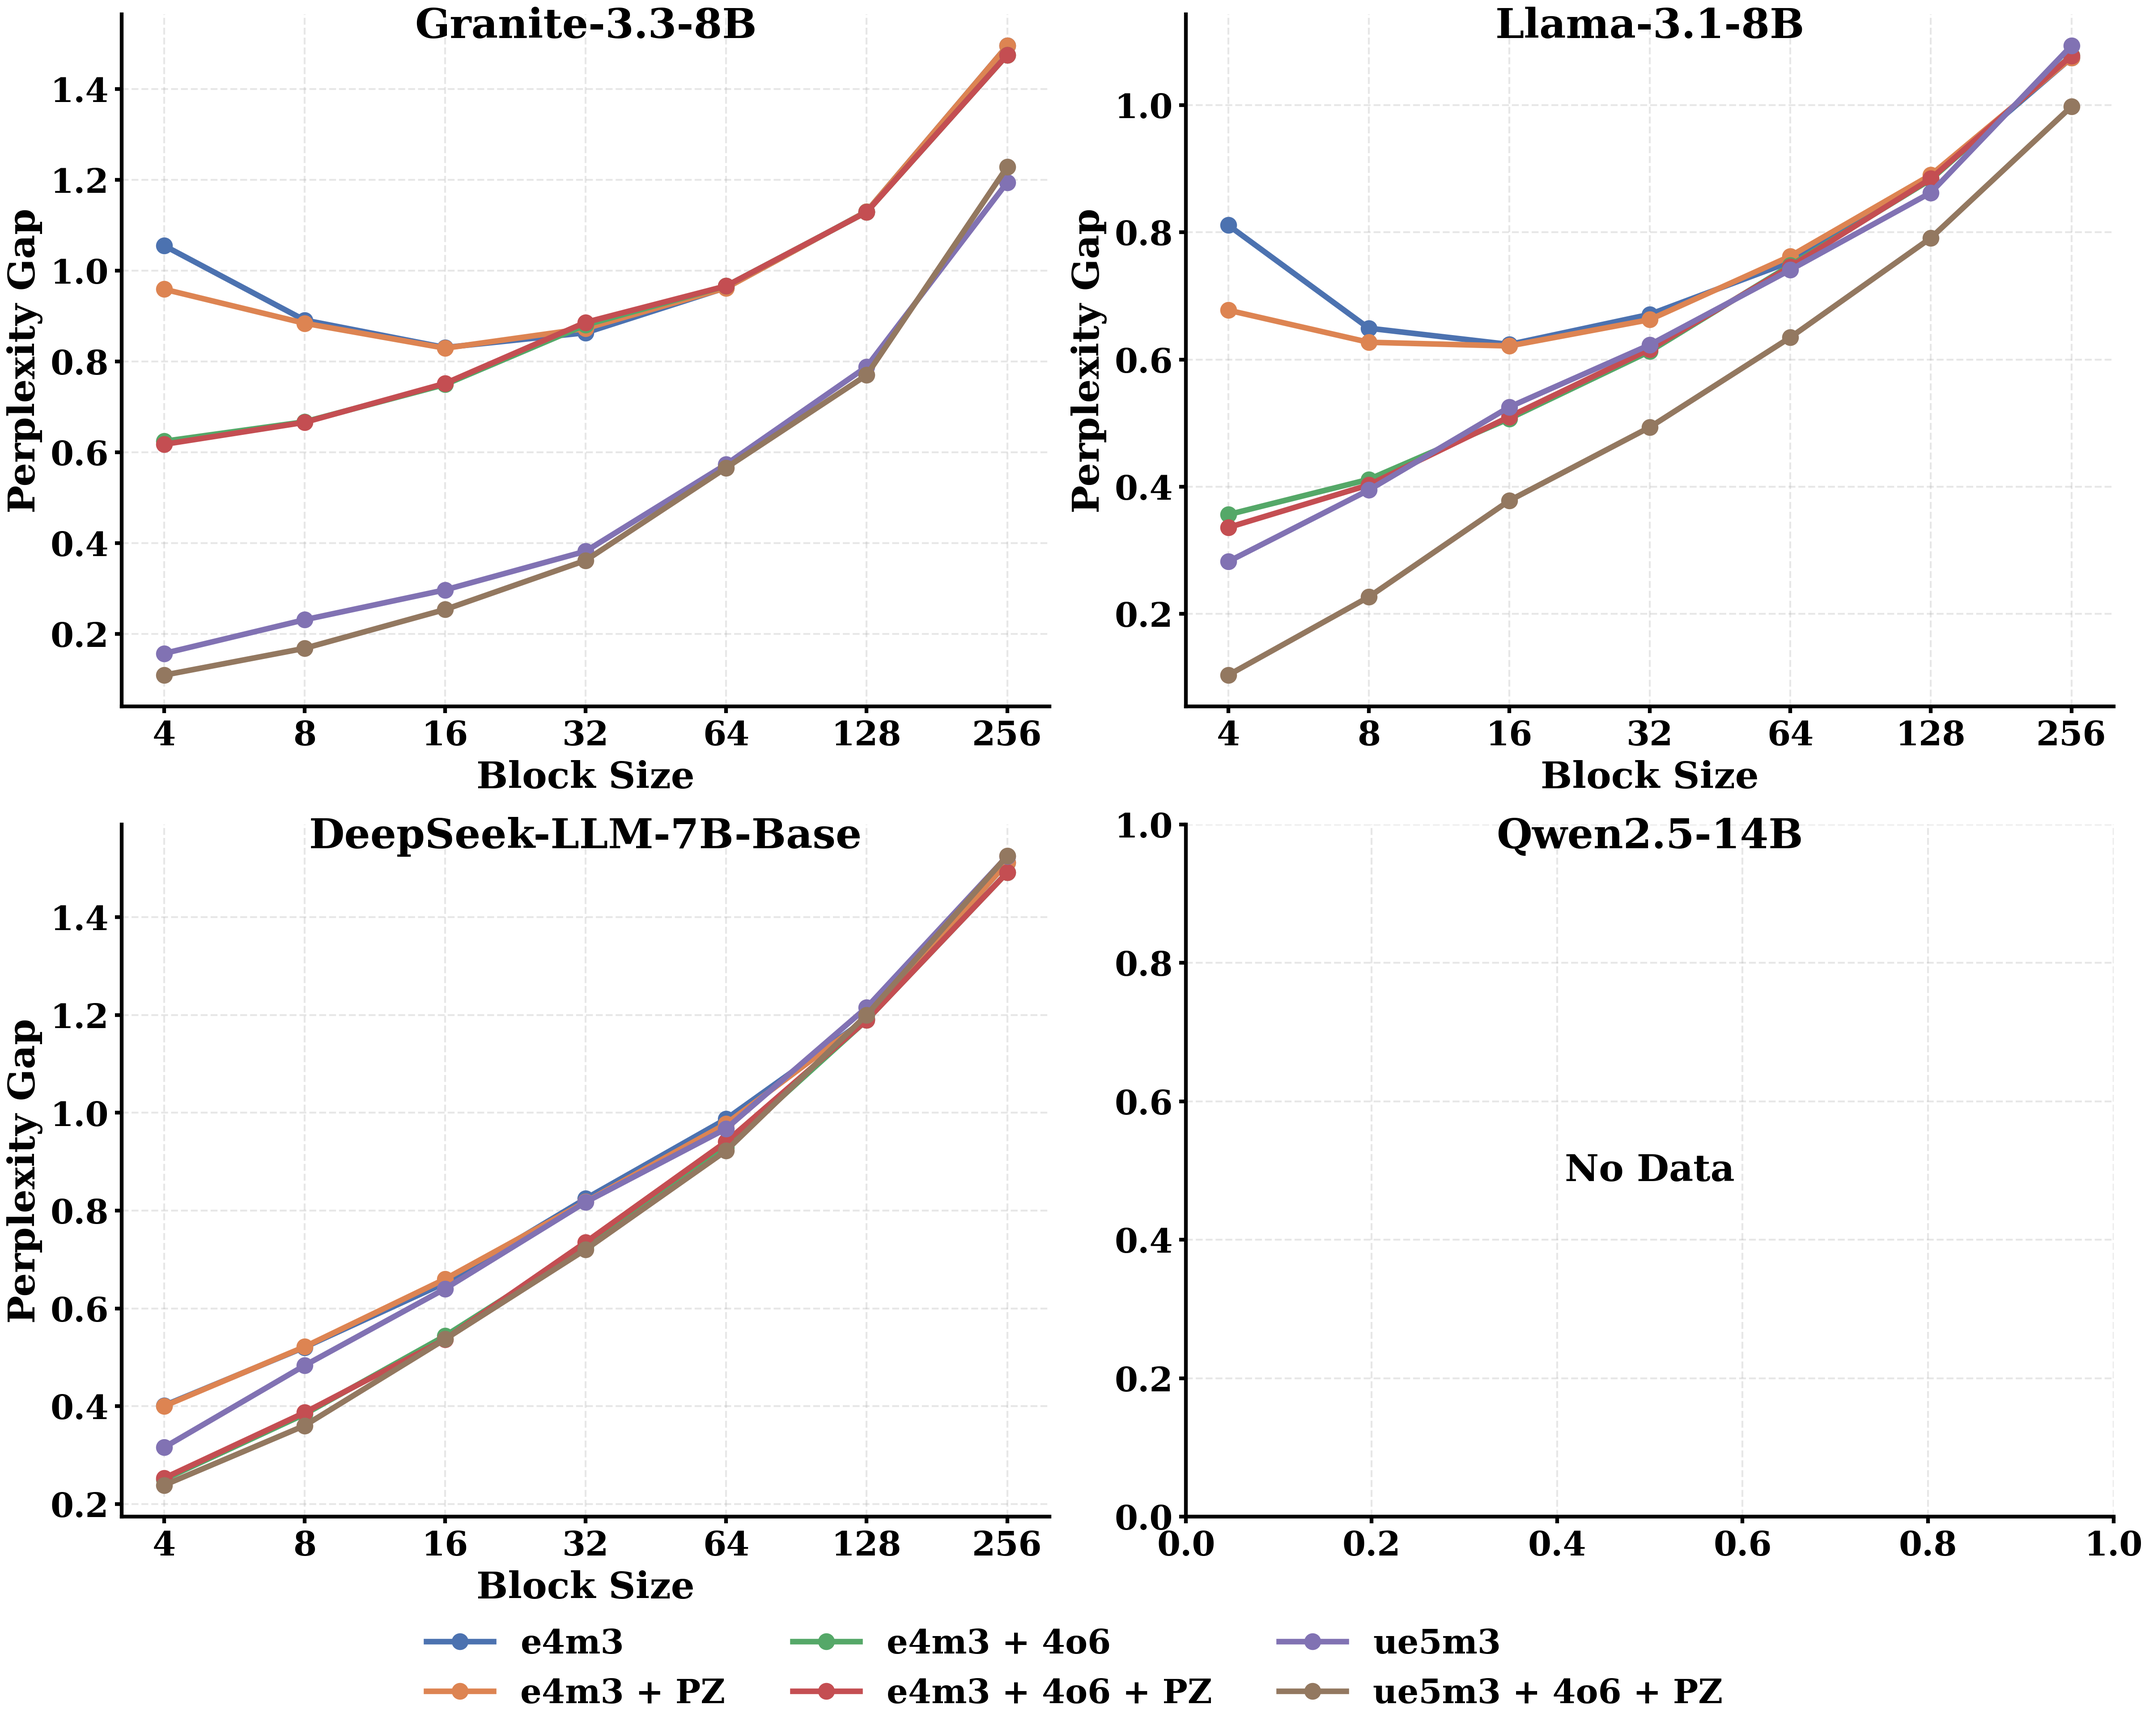
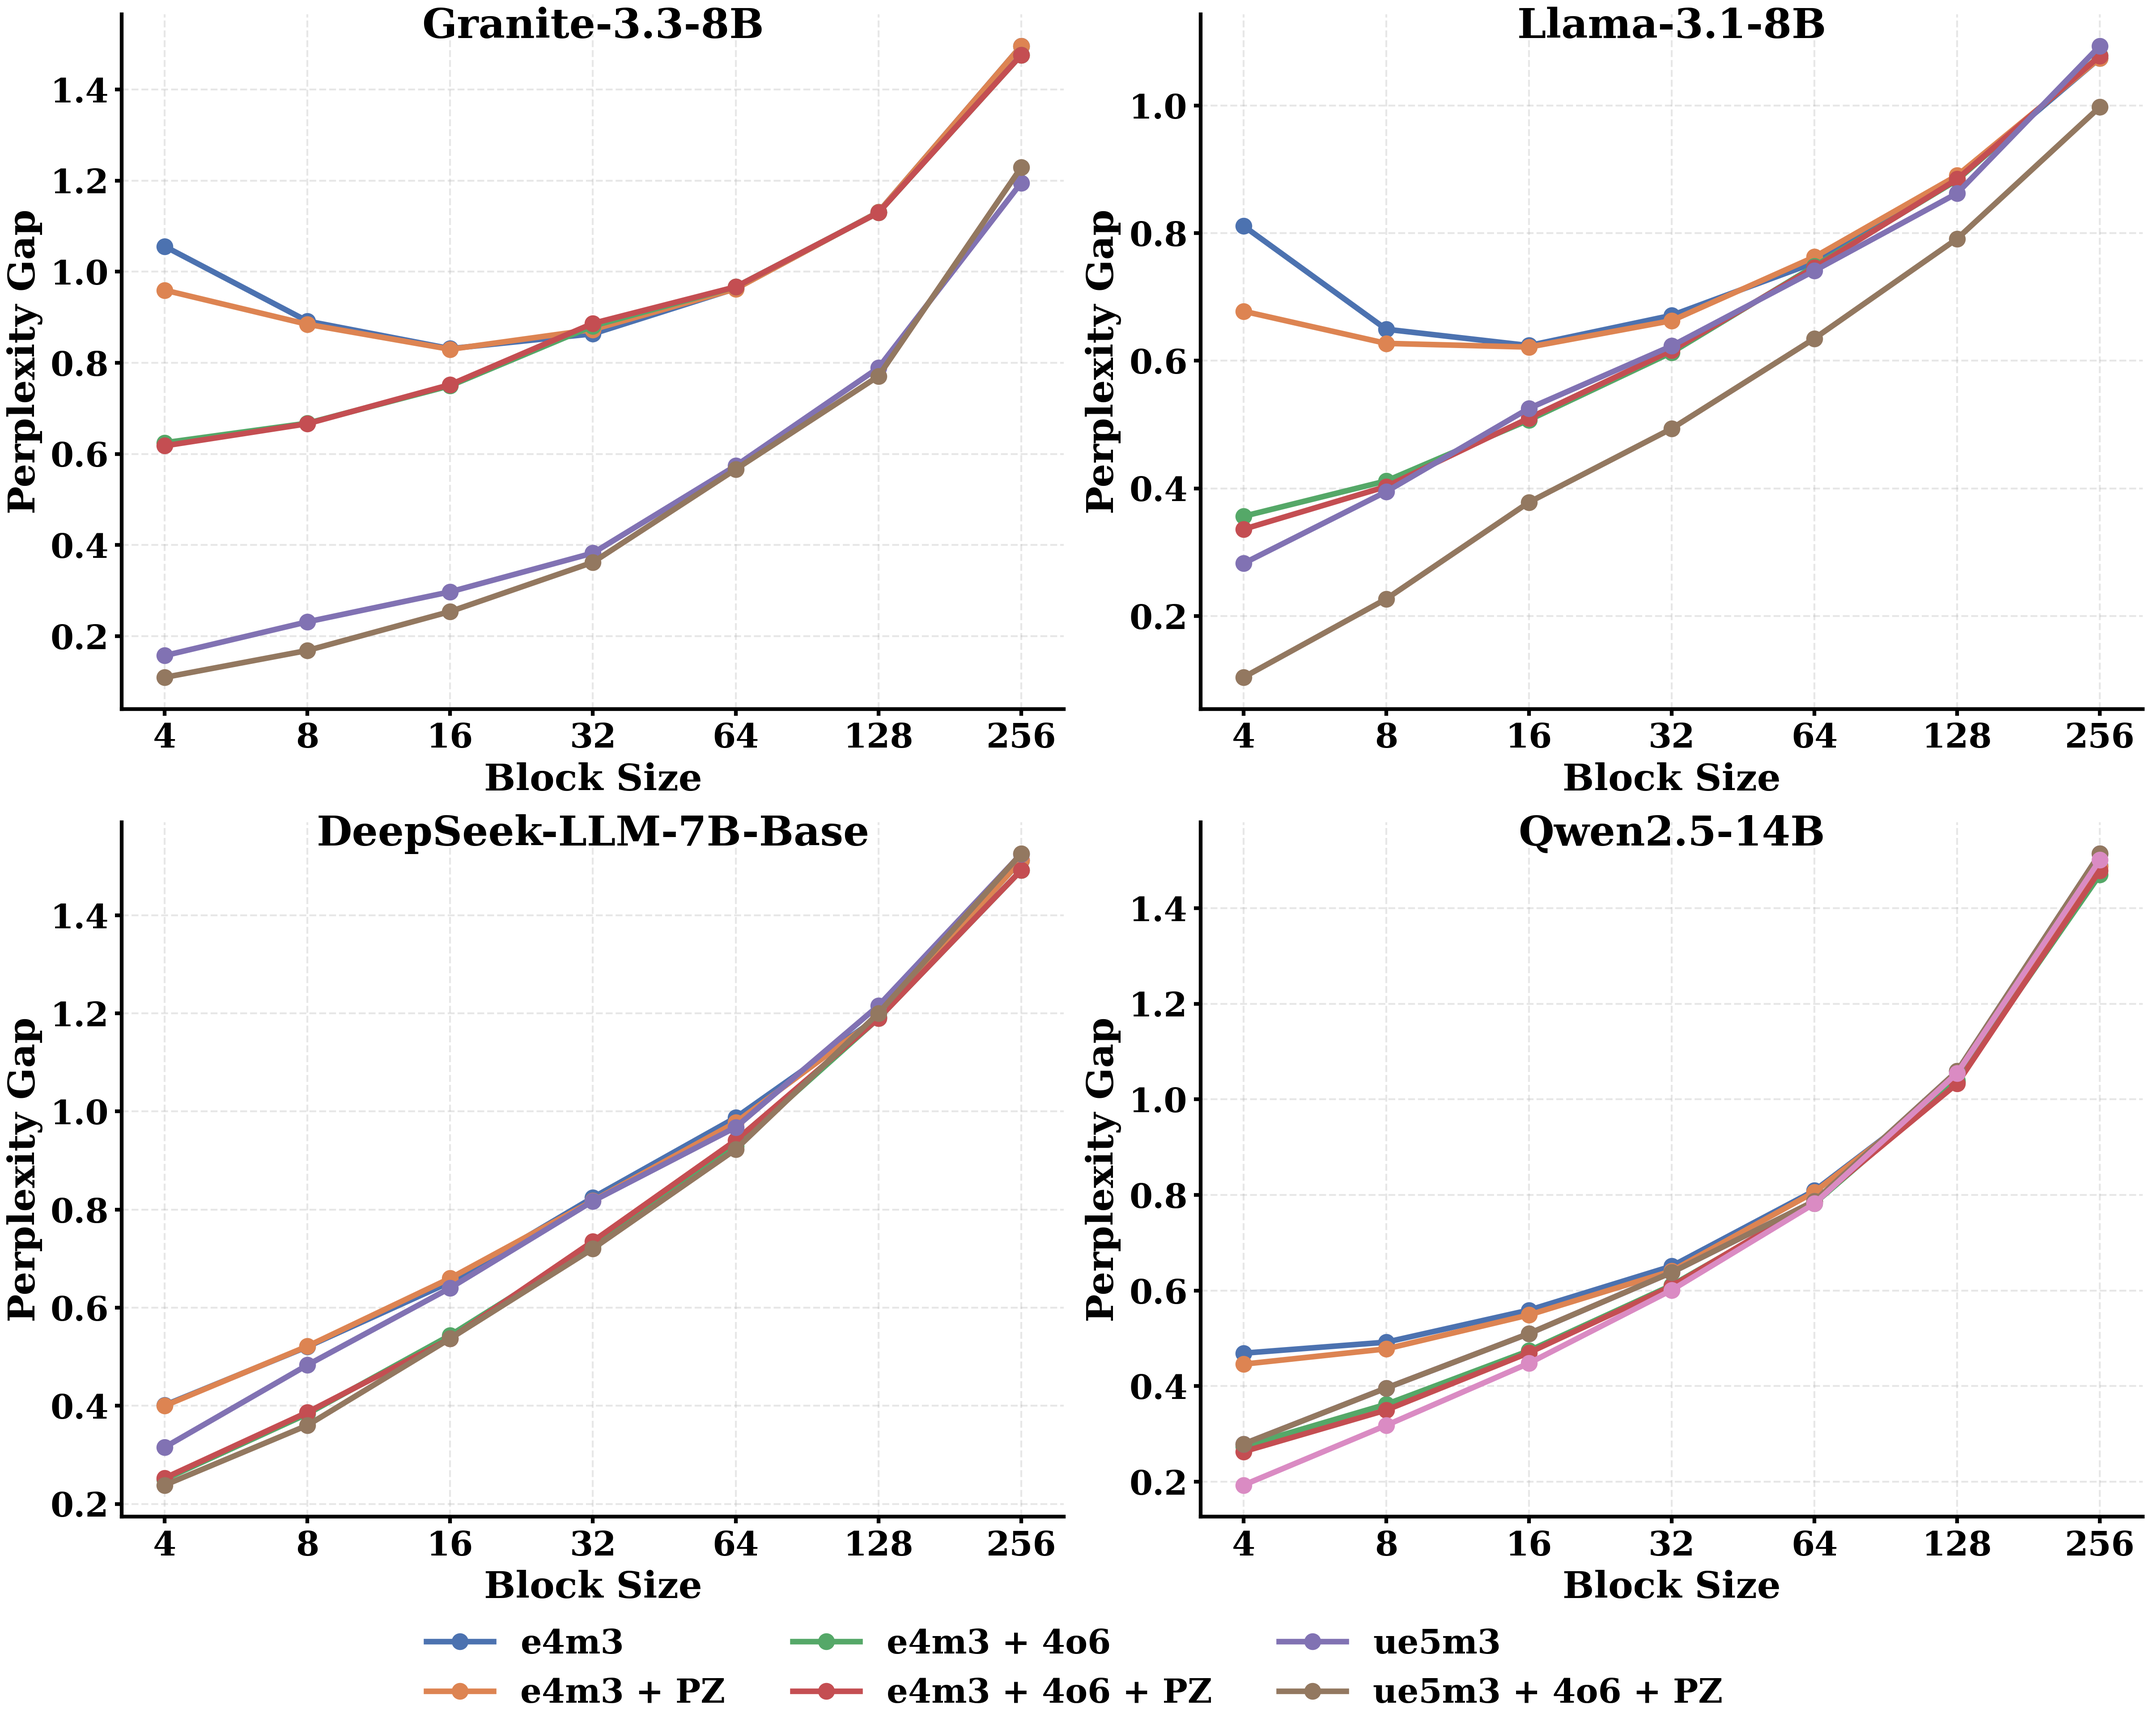
Remove phantom baseline rows and clean up tables

diff --git a/README.md b/README.md
@@ -86,36 +86,48 @@ This section is automatically updated by the evaluation script after each run. D
 
 ### Granite
 
-|                  |   Baseline |   BS=4 |   BS=8 |   BS=16 |   BS=32 |   BS=64 |   BS=128 |   BS=256 |
-|:-----------------|-----------:|-------:|-------:|--------:|--------:|--------:|---------:|---------:|
-| e4m3             |       4.91 |   1.06 |   0.89 |    0.83 |    0.86 |    0.96 |     1.13 |     1.5  |
-| e4m3 + PZ        |       4.91 |   0.96 |   0.88 |    0.83 |    0.87 |    0.96 |     1.13 |     1.5  |
-| e4m3 + 4o6       |       4.91 |   0.62 |   0.67 |    0.75 |    0.88 |    0.97 |     1.13 |     1.48 |
-| e4m3 + 4o6 + PZ  |       4.91 |   0.62 |   0.67 |    0.75 |    0.89 |    0.97 |     1.13 |     1.48 |
-| ue5m3            |       4.91 |   0.16 |   0.23 |    0.3  |    0.38 |    0.57 |     0.79 |     1.19 |
-| ue5m3 + 4o6 + PZ |       4.91 |   0.11 |   0.17 |    0.25 |    0.36 |    0.57 |     0.77 |     1.23 |
+|                 |   Baseline |   BS=4 |   BS=8 |   BS=16 |   BS=32 |   BS=64 |   BS=128 |   BS=256 |
+|:----------------|-----------:|-------:|-------:|--------:|--------:|--------:|---------:|---------:|
+| e4m3            |       4.91 |   1.06 |   0.89 |    0.83 |    0.86 |    0.96 |     1.13 |     1.5  |
+| e4m3 + PZ       |       4.91 |   0.96 |   0.88 |    0.83 |    0.87 |    0.96 |     1.13 |     1.5  |
+| e4m3 + 4o6      |       4.91 |   0.62 |   0.67 |    0.75 |    0.88 |    0.97 |     1.13 |     1.48 |
+| e4m3 + 4o6 + PZ |       4.91 |   0.62 |   0.67 |    0.75 |    0.89 |    0.97 |     1.13 |     1.48 |
+| ue5m3           |       4.91 |   0.16 |   0.23 |    0.3  |    0.38 |    0.57 |     0.79 |     1.19 |
+| ue5m3 + PZ      |       4.91 |   0.11 |   0.17 |    0.25 |    0.36 |    0.57 |     0.77 |     1.23 |
 
 ### Llama
 
-|                  |   Baseline |   BS=4 |   BS=8 |   BS=16 |   BS=32 |   BS=64 |   BS=128 |   BS=256 |
-|:-----------------|-----------:|-------:|-------:|--------:|--------:|--------:|---------:|---------:|
-| e4m3             |       6.33 |   0.81 |   0.65 |    0.62 |    0.67 |    0.75 |     0.88 |     1.07 |
-| e4m3 + PZ        |       6.33 |   0.68 |   0.63 |    0.62 |    0.66 |    0.76 |     0.89 |     1.07 |
-| e4m3 + 4o6       |       6.33 |   0.36 |   0.41 |    0.51 |    0.61 |    0.75 |     0.88 |     1.08 |
-| e4m3 + 4o6 + PZ  |       6.33 |   0.34 |   0.4  |    0.51 |    0.62 |    0.75 |     0.88 |     1.08 |
-| ue5m3            |       6.33 |   0.28 |   0.39 |    0.53 |    0.62 |    0.74 |     0.86 |     1.09 |
-| ue5m3 + 4o6 + PZ |       6.33 |   0.1  |   0.23 |    0.38 |    0.49 |    0.63 |     0.79 |     1    |
+|                 |   Baseline |   BS=4 |   BS=8 |   BS=16 |   BS=32 |   BS=64 |   BS=128 |   BS=256 |
+|:----------------|-----------:|-------:|-------:|--------:|--------:|--------:|---------:|---------:|
+| e4m3            |       6.33 |   0.81 |   0.65 |    0.62 |    0.67 |    0.75 |     0.88 |     1.07 |
+| e4m3 + PZ       |       6.33 |   0.68 |   0.63 |    0.62 |    0.66 |    0.76 |     0.89 |     1.07 |
+| e4m3 + 4o6      |       6.33 |   0.36 |   0.41 |    0.51 |    0.61 |    0.75 |     0.88 |     1.08 |
+| e4m3 + 4o6 + PZ |       6.33 |   0.34 |   0.4  |    0.51 |    0.62 |    0.75 |     0.88 |     1.08 |
+| ue5m3           |       6.33 |   0.28 |   0.39 |    0.53 |    0.62 |    0.74 |     0.86 |     1.09 |
+| ue5m3 + PZ      |       6.33 |   0.1  |   0.23 |    0.38 |    0.49 |    0.63 |     0.79 |     1    |
 
 ### DeepSeek
 
+|                 |   Baseline |   BS=4 |   BS=8 |   BS=16 |   BS=32 |   BS=64 |   BS=128 |   BS=256 |
+|:----------------|-----------:|-------:|-------:|--------:|--------:|--------:|---------:|---------:|
+| e4m3            |      12.39 |   0.4  |   0.52 |    0.65 |    0.82 |    0.99 |     1.19 |     1.51 |
+| e4m3 + PZ       |      12.39 |   0.4  |   0.52 |    0.66 |    0.82 |    0.98 |     1.19 |     1.51 |
+| e4m3 + 4o6      |      12.39 |   0.25 |   0.38 |    0.54 |    0.73 |    0.93 |     1.19 |     1.49 |
+| e4m3 + 4o6 + PZ |      12.39 |   0.25 |   0.39 |    0.54 |    0.74 |    0.94 |     1.19 |     1.49 |
+| ue5m3           |      12.39 |   0.32 |   0.48 |    0.64 |    0.82 |    0.97 |     1.22 |     1.53 |
+| ue5m3 + PZ      |      12.39 |   0.24 |   0.36 |    0.54 |    0.72 |    0.92 |     1.2  |     1.53 |
+
+### Qwen
+
 |                  |   Baseline |   BS=4 |   BS=8 |   BS=16 |   BS=32 |   BS=64 |   BS=128 |   BS=256 |
 |:-----------------|-----------:|-------:|-------:|--------:|--------:|--------:|---------:|---------:|
-| e4m3             |      12.39 |   0.4  |   0.52 |    0.65 |    0.82 |    0.99 |     1.19 |     1.51 |
-| e4m3 + PZ        |      12.39 |   0.4  |   0.52 |    0.66 |    0.82 |    0.98 |     1.19 |     1.51 |
-| e4m3 + 4o6       |      12.39 |   0.25 |   0.38 |    0.54 |    0.73 |    0.93 |     1.19 |     1.49 |
-| e4m3 + 4o6 + PZ  |      12.39 |   0.25 |   0.39 |    0.54 |    0.74 |    0.94 |     1.19 |     1.49 |
-| ue5m3            |      12.39 |   0.32 |   0.48 |    0.64 |    0.82 |    0.97 |     1.22 |     1.53 |
-| ue5m3 + 4o6 + PZ |      12.39 |   0.24 |   0.36 |    0.54 |    0.72 |    0.92 |     1.2  |     1.53 |
+| e4m3             |       5.36 |   0.47 |   0.49 |    0.56 |    0.65 |    0.81 |     1.04 |     1.49 |
+| e4m3 + PZ        |       5.36 |   0.45 |   0.48 |    0.55 |    0.64 |    0.81 |     1.04 |     1.49 |
+| e4m3 + 4o6       |       5.36 |   0.27 |   0.36 |    0.47 |    0.61 |    0.78 |     1.04 |     1.47 |
+| e4m3 + 4o6 + PZ  |       5.36 |   0.26 |   0.35 |    0.47 |    0.61 |    0.79 |     1.03 |     1.48 |
+| ue5m3            |       5.36 |   0.28 |   0.4  |    0.51 |    0.64 |    0.79 |     1.06 |     1.51 |
+| ue5m3 + PZ       |       5.36 |   0.28 |   0.4  |    0.51 |    0.64 |    0.79 |     1.06 |     1.51 |
+| ue5m3 + 4o6 + PZ |       5.36 |   0.19 |   0.32 |    0.45 |    0.6  |    0.78 |     1.05 |     1.5  |
 
 ### Perplexity Gap All Models
 ![Perplexity Gap All Models](plots/gap_all_models.png)
